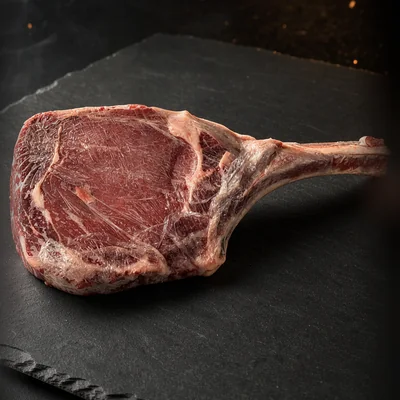
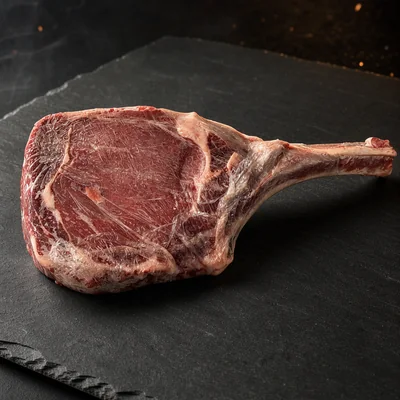
Menu: fotos de los cortes premium sin blur (Rib eye y Entrana acostados/verticales completos, estilo T-bone)
(cherry picked from commit c39a65eac2f81ea38c4d8e02abff7a08d0d48e1d)

diff --git a/js/catalogo.js b/js/catalogo.js
@@ -8,7 +8,7 @@
   "use strict";
 
   // Medidas reales de cada foto: [ancho, alto, alto de la miniatura de 400]. Generado con PIL; rehacer si cambian las fotos.
-  var MEDIDAS = {"asar-cerdo":[1000,670,268],"asar":[1000,670,268],"bacon":[1000,670,268],"bistec-cerdo":[1000,670,268],"bistec-res":[1000,670,268],"bolita":[1000,670,268],"cabeza-de-lomo":[1000,670,268],"camaron":[1000,670,268],"carne-salada":[1000,670,268],"chicken-finger":[1000,625,250],"chorizo-barbacoa":[1000,625,250],"chorizo-cervecero":[1000,625,250],"chorizo-criollo":[1000,625,250],"chorizo-indio":[1000,670,268],"chorizo-parrillero":[1000,625,250],"chorizo-suelto":[1000,625,250],"chuleta-ahumada":[1000,670,268],"chuleta-cerdo":[900,900,400],"corazon":[1000,670,268],"costilla-cerdo":[1000,670,268],"costilla-res":[1000,670,268],"cubos":[900,900,400],"entrana":[900,900,400],"estofado-cerdo":[1000,670,268],"fajitas-cerdo":[1000,670,268],"fajitas-res":[1000,670,268],"falda":[1000,670,268],"filete":[900,900,400],"higado":[1000,670,268],"hot-dog-de-pollo":[1000,625,250],"lengua":[1000,670,268],"lomo-cerdo":[900,900,400],"lomo-limpio":[1000,670,268],"mano-de-piedra":[1000,670,268],"manteca-de-cerdo":[1000,670,268],"medallones":[1000,625,250],"menudo":[1000,670,268],"milanesa":[1000,670,268],"molida-cerdo":[1000,670,268],"molida":[900,900,400],"mondongo":[900,900,400],"newyork":[1000,670,268],"papas-congeladas":[1000,670,268],"papas-sazonadas":[1000,670,268],"papas-tornillo":[1000,670,268],"patas-cerdo":[1000,670,268],"patas-pollo":[1000,670,268],"pechuga-ala":[1000,670,268],"pechuga":[900,900,400],"pechuguitas":[1000,625,250],"pierna-muslo":[1000,670,268],"pollo-entero":[900,900,400],"pollo-piezas":[1000,670,268],"pulmon":[1000,670,268],"puyaso":[900,900,400],"ribeye":[900,900,400],"tajo-negro":[1000,670,268],"tocino":[900,900,400],"tbone":[900,900,400],"tomahawk":[900,900,400],"vaso":[1000,670,268]};
+  var MEDIDAS = {"asar-cerdo":[1000,670,268],"asar":[1000,670,268],"bacon":[1000,670,268],"bistec-cerdo":[1000,670,268],"bistec-res":[1000,670,268],"bolita":[1000,670,268],"cabeza-de-lomo":[1000,670,268],"camaron":[1000,670,268],"carne-salada":[1000,670,268],"chicken-finger":[1000,625,250],"chorizo-barbacoa":[1000,625,250],"chorizo-cervecero":[1000,625,250],"chorizo-criollo":[1000,625,250],"chorizo-indio":[1000,670,268],"chorizo-parrillero":[1000,625,250],"chorizo-suelto":[1000,625,250],"chuleta-ahumada":[1000,670,268],"chuleta-cerdo":[900,900,400],"corazon":[1000,670,268],"costilla-cerdo":[1000,670,268],"costilla-res":[1000,670,268],"cubos":[900,900,400],"entrana":[900,600,267],"estofado-cerdo":[1000,670,268],"fajitas-cerdo":[1000,670,268],"fajitas-res":[1000,670,268],"falda":[1000,670,268],"filete":[900,900,400],"higado":[1000,670,268],"hot-dog-de-pollo":[1000,625,250],"lengua":[1000,670,268],"lomo-cerdo":[900,900,400],"lomo-limpio":[1000,670,268],"mano-de-piedra":[1000,670,268],"manteca-de-cerdo":[1000,670,268],"medallones":[1000,625,250],"menudo":[1000,670,268],"milanesa":[1000,670,268],"molida-cerdo":[1000,670,268],"molida":[900,900,400],"mondongo":[900,900,400],"newyork":[1000,670,268],"papas-congeladas":[1000,670,268],"papas-sazonadas":[1000,670,268],"papas-tornillo":[1000,670,268],"patas-cerdo":[1000,670,268],"patas-pollo":[1000,670,268],"pechuga-ala":[1000,670,268],"pechuga":[900,900,400],"pechuguitas":[1000,625,250],"pierna-muslo":[1000,670,268],"pollo-entero":[900,900,400],"pollo-piezas":[1000,670,268],"pulmon":[1000,670,268],"puyaso":[900,900,400],"ribeye":[900,900,400],"tajo-negro":[1000,670,268],"tocino":[900,900,400],"tbone":[900,900,400],"tomahawk":[900,900,400],"vaso":[1000,670,268]};
 
   function escHTML(s) {
     return String(s == null ? "" : s).replace(/[&<>"']/g, function (c) {
